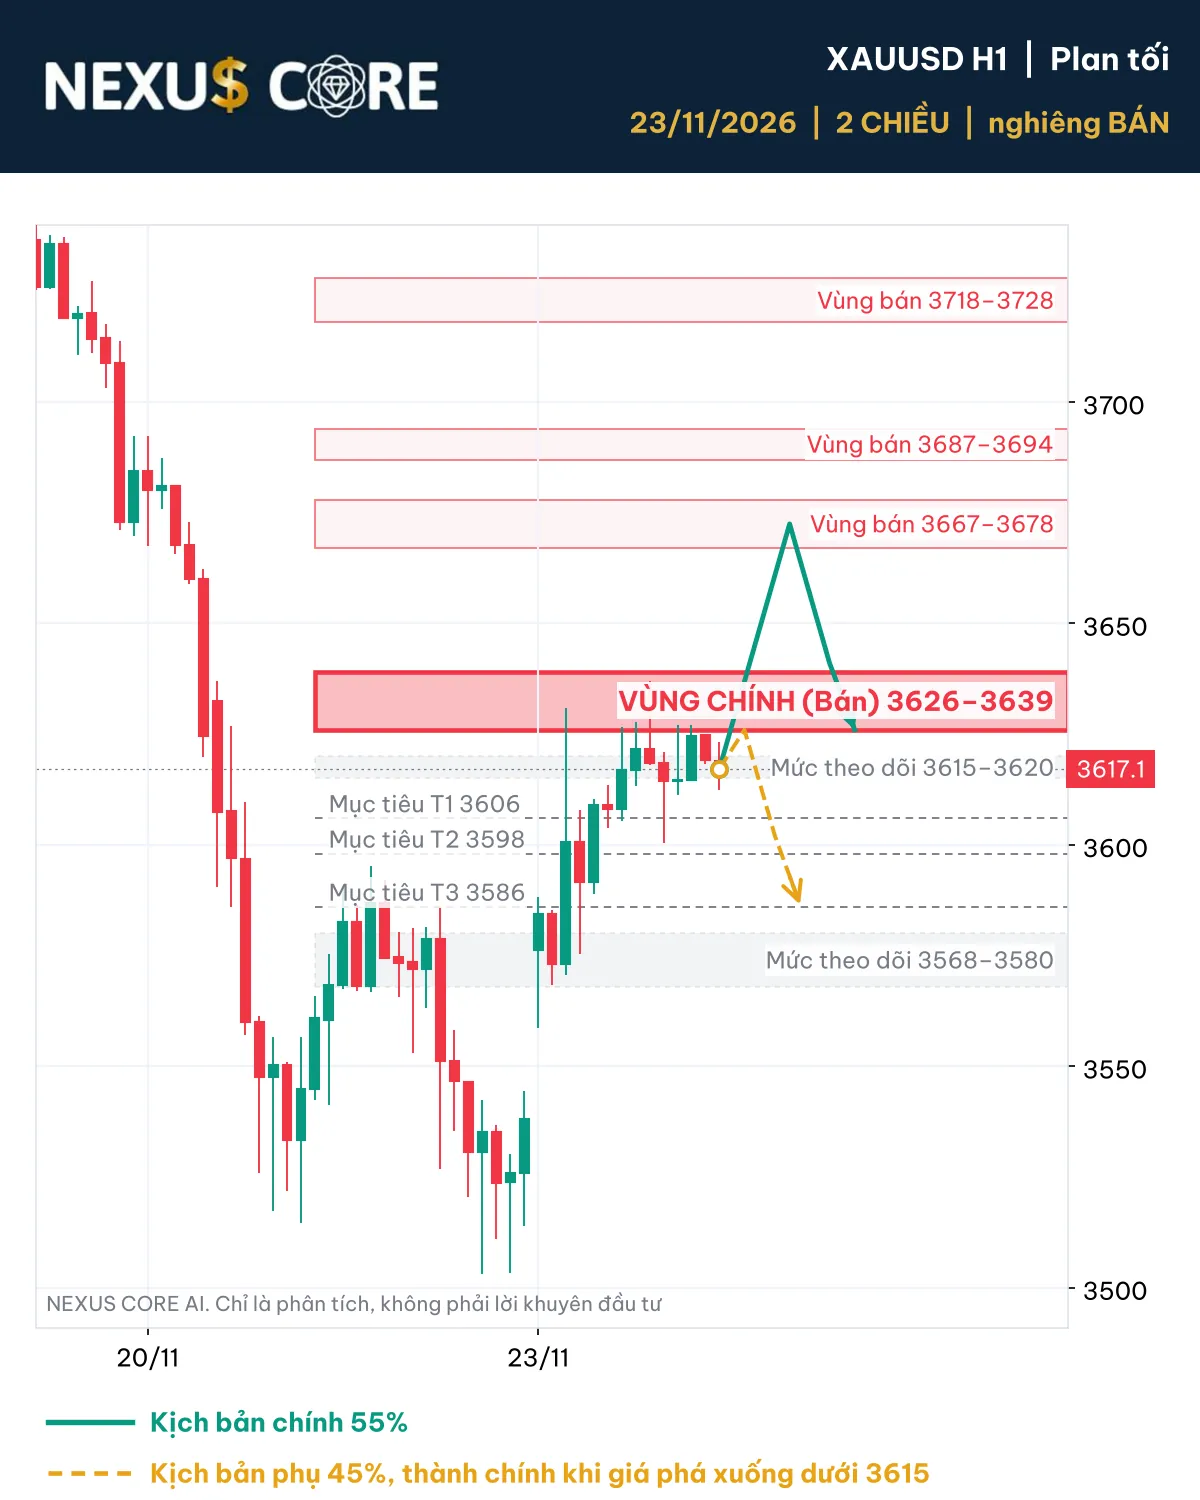
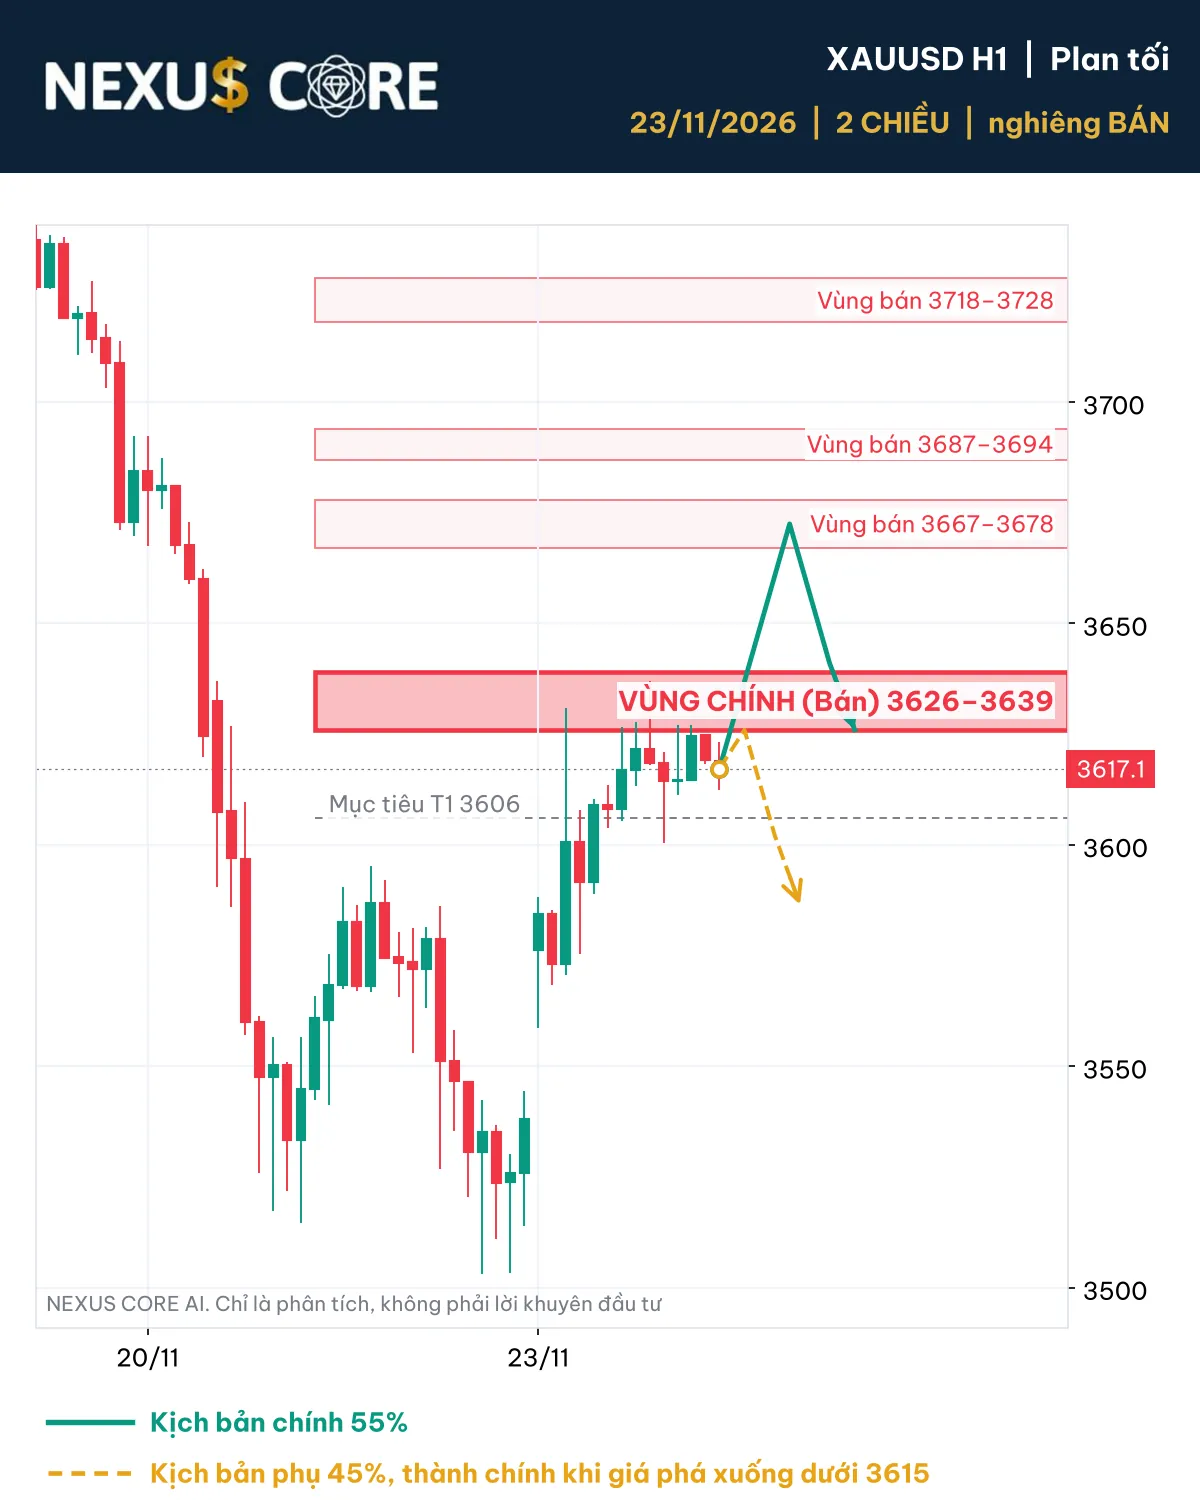
chart: only Target 1, no watch levels drawn (23/11 1930 redrawn)
Claude-Session: https://claude.ai/code/session_01WJYGnTrbXDepCU7DbnsJKo

diff --git a/tools/chart.py b/tools/chart.py
@@ -77,12 +77,12 @@ def render(outf, mob):
         ZL.append(ax.text(X1 - 1, (a + b) / 2, lab, ha='right', va='center', fontsize=(10 if main else 8.5) * K, color=edge,
                 fontweight='bold' if main else 'normal', zorder=8, bbox=dict(fc='white', ec='none', alpha=0.92, pad=0.6)))  # labels sit above the scenario arrows
         shown += [a, b]
-    # declutter (user 23/11/2026 "nhiều vùng watch quá, bỏ bớt"): every zone is drawn; then at most MAX_TG targets and
-    # MAX_WATCH watch levels, nearest to the price first, and none that sits on/within GAP dollars of something already drawn
-    MAX_TG, MAX_WATCH, GAP = 3, 2, 4.0
+    # declutter (user 23/11/2026 "nhiều vùng watch quá, bỏ bớt" → "xóa bớt đi"): every zone is drawn; then only Target 1
+    # and no watch levels (they stay in the plan text); nothing within GAP dollars of something already drawn
+    MAX_TG, MAX_WATCH, GAP = 1, 0, 4.0
     def free(a, b): return all(b < s0 - GAP or a > s1 + GAP for s0, s1 in taken)
     taken = [(min(z['lo'], z['hi']), max(z['lo'], z['hi'])) for z in P.get('zones') or []]
-    tgs = sorted((q for q in P.get('targets') or [] if vis((q['lo'] + q['hi']) / 2)), key=lambda q: abs((q['lo'] + q['hi']) / 2 - px))
+    tgs = sorted((q for q in P.get('targets') or [] if vis((q['lo'] + q['hi']) / 2)), key=lambda q: (str(q.get('label')) != 'T1', abs((q['lo'] + q['hi']) / 2 - px)))
     keep_tg = []
     for q in tgs:
         y = (q['lo'] + q['hi']) / 2
